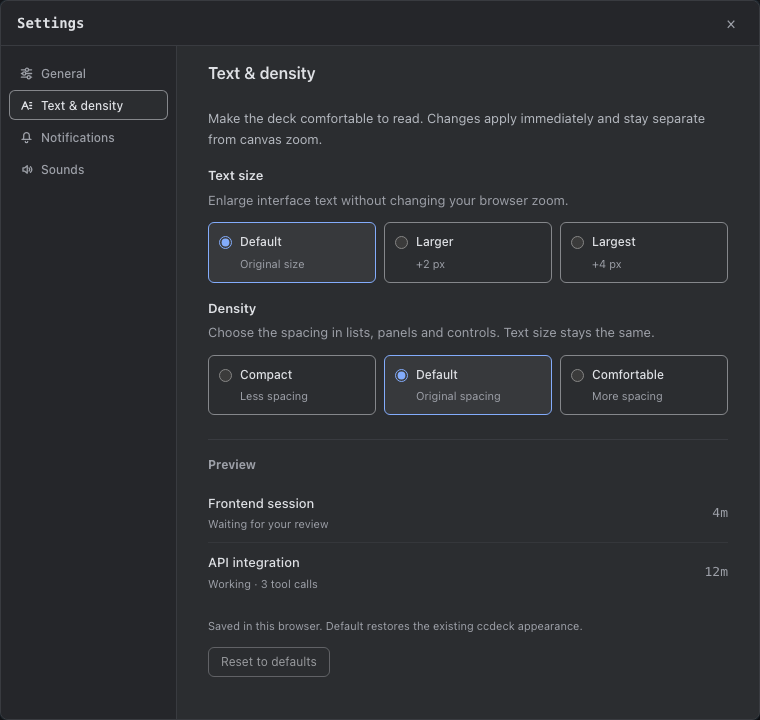
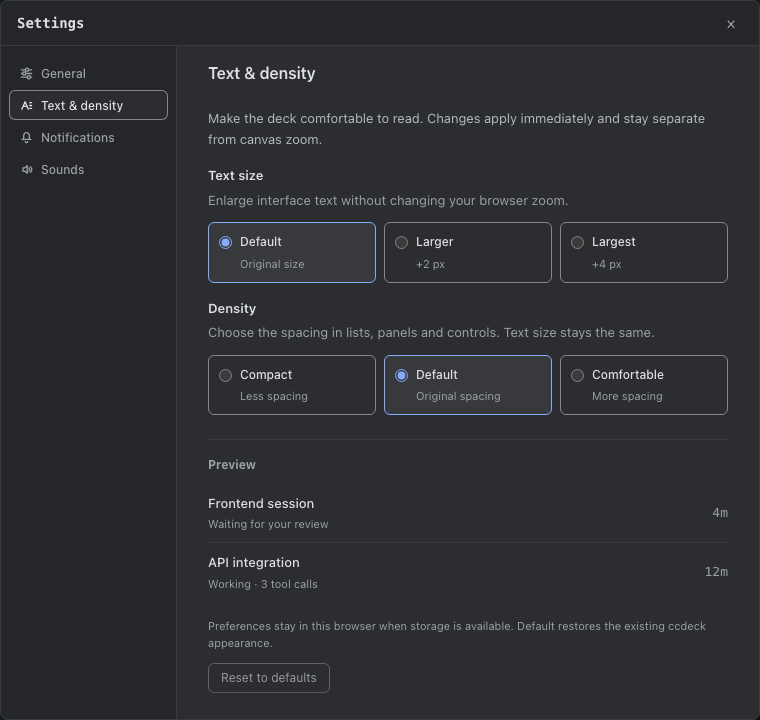
fix: finish reading preferences quality gate
Clarify browser persistence, preserve whole-word mobile labels, and apply density to account rows with verified default spacing. Record rendered top and bottom states and final checks so the reading controls remain usable under enlarged text and restricted storage.

Changed region(s): [[0.2724, 0.8556, 0.9382, 0.9472]]

diff --git a/src/web/styles/reading.css b/src/web/styles/reading.css
@@ -58,6 +58,7 @@
 @media (max-width: 640px) {
   .reading-options { grid-template-columns: minmax(0, 1fr); }
   .reading-choice > span { display: flex; flex: 1; justify-content: space-between; align-items: baseline; gap: 8px; }
+  .reading-choice strong { flex: none; overflow-wrap: normal; white-space: nowrap; }
   .reading-choice small { margin-top: 0; text-align: right; }
 }
 @media (forced-colors: active) {

diff --git a/src/web/components/ReadingSection.tsx b/src/web/components/ReadingSection.tsx
@@ -104,8 +104,8 @@ export default function ReadingSection({
       </section>
       <div className="reading-footer">
         <p>
-          Saved in this browser. Default restores the existing ccdeck
-          appearance.
+          Preferences stay in this browser when storage is available. Default
+          restores the existing ccdeck appearance.
         </p>
         <button
           type="button"

diff --git a/src/web/styles/accounts-panel.css b/src/web/styles/accounts-panel.css
@@ -121,7 +121,7 @@
 .ap-list {
   list-style: none;
   margin: 0;
-  padding: 6px 6px 8px;
+  padding: calc(6px + var(--ui-row-increase, 0px)) 6px calc(8px + var(--ui-row-increase, 0px));
   display: flex;
   flex-direction: column;
   gap: 2px;

diff --git a/.impeccable/surfaces/text-size-density.md b/.impeccable/surfaces/text-size-density.md
@@ -1,0 +1,59 @@
+---
+version: 1
+slug: "text-size-density"
+primary_target: "src/web/components/ReadingSection.tsx"
+related_targets: ["src/web/components/SettingsModal.tsx", "src/web/reading-preferences.ts", "src/web/styles/reading.css", "src/web/styles/accounts-panel.css", "src/web/use-appearance.ts", "src/web/index.html", "src/web/use-node-measurements.ts"]
+---
+
+# Text size and density
+
+Mode: Operate. Settings → Text & density lets the single operator make the deck easier
+to scan, see the result immediately, and restore the familiar appearance.
+
+Direction: extend the existing settings language and PRODUCT.md/DESIGN.md
+identity. Preserve system typography, monospaced values, theme and semantic
+colors, control edges, radii and focus tokens. No new visual identity, gradients,
+brand artwork or dependencies. Default keeps the established type and spacing.
+
+Task: choose independently between Default, Larger (+2 px) and Largest (+4 px)
+text, and Compact, Default and Comfortable density. Native radios in labeled
+fieldsets retain platform keyboard behavior. Changes apply immediately; the
+two illustrative session rows preview text and spacing. Reset to defaults
+restores both choices and is disabled when both are already Default.
+
+Layout and interaction: three choices per row become one column at 640px and
+below; mobile choice labels stay on one line without shrinking or breaking words.
+Keep help, preview and reset reachable in narrow and short windows at
+Largest/Comfortable. Selection uses the existing accent border and neutral
+fill; keyboard focus has a visible outline. Enlarged text raises control height
+floors; compact spacing must not reduce interactive rows below 24px. Density
+changes spacing independently of text size, including account-row padding;
+zero row increment preserves the original Default spacing.
+
+Persistence: preferences belong to this browser/origin, not an account or paired
+machine. Guarded storage reads fall back to Default; failed writes leave the
+current interface usable without promising reload persistence. The inline
+index.html bootstrap applies validated choices before first paint; React starts
+from the same values. Storage events synchronize same-origin tabs, with missing,
+invalid or cleared values resolving to Default. The footer states “Preferences
+stay in this browser when storage is available,” qualifying persistence for a
+blocked store.
+
+Canvas constraint: canvas zoom and browser zoom remain untouched. Zoomed-out LOD
+summaries explicitly use zero text offset to preserve fixed screen-space line
+budgets and container cutoffs. Expanded cards and detail panels enlarge normally;
+React Flow measurement and its DOM fallback supply updated card dimensions to
+layout rather than changing the camera scale.
+
+Verification: 32 focused test files / 668 tests passed before the last narrow-label
+and account-row adjustments. The final four-file check after those changes passed
+73 tests; final typecheck and production build passed. Actual-app browser checks
+passed keyboard radios, reload, cross-tab updates, denied storage, reset, Escape
+and focus return, unchanged React Flow viewport scale, narrow/short windows and
+light-theme rendering. Top and bottom Settings screenshots were inspected.
+The independent finish reviewer scored the material conditional-save-copy fix and
+optional whole-word-label follow-up resolved. SHIP at this bounded review scope;
+not a full-repository or cross-platform accessibility certification. SVG/canvas
+chart typography remains under each chart's existing renderer; no cloud or
+cross-origin preference migration is implemented. No new detector was run after
+the single clean initial detector pass.

diff --git a/.impeccable/review/text-density/verification.md b/.impeccable/review/text-density/verification.md
@@ -1,0 +1,48 @@
+# Text size and density verification
+
+2026-10-14. Feature branch: `feat/text-size-density`, from development `da2ec5b2`.
+
+## Implementation
+
+Settings → Text & density. Independent text Default/Larger/Largest (0/+2/+4px)
+and density Compact/Default/Comfortable; native keyboard-operable radios,
+immediate preview, reset, pre-paint restore and same-origin storage events.
+Default retains the existing type scale and spacing. Persistence is browser-local
+when browser storage permits it. No canvas/browser zoom setting is changed.
+Density adjusts shared panel/control geometry and agent/session/account rows.
+Zoomed-out LOD summaries retain their fixed screen-space typography budgets.
+
+## Executed checks
+
+- `npm run typecheck`: passed.
+- `npm run build`: passed after the final narrow label/account row follow-up
+  (13.09 seconds). Existing large-chunk warning.
+- Combined focused type/geometry/settings suite: **32 files, 668 tests passed**.
+  Legacy source-level geometry checks explicitly resolve only the two known
+  zero-default reading increments; actual browser tests check the rendered cascade.
+- After the account-row spacing and narrow-label follow-up:
+  `npm run test -- src/web/__tests__/reading-preferences.test.ts src/web/__tests__/panel-rhythm.test.ts src/web/__tests__/accounts-small-text-857.test.ts src/web/__tests__/control-edges.test.ts`:
+  **4 files, 73 tests passed**.
+- `PLAYWRIGHT_MODULE=<existing Playwright module> PLAYWRIGHT_EXECUTABLE=<installed Chromium executable> node scripts/verify-reading-preferences.mjs`:
+  passed after final UI corrections. Actual app at the isolated local preview,
+  no new test dependency. Default computed text/padding, independent controls,
+  native radio keyboard change, reload, cross-tab updates, denied storage,
+  reset, Escape/focus return and unchanged React Flow viewport scale verified.
+- Screenshots: 1280×900, 320×640, 390×844 and 1024×500; dark and White Contrast;
+  largest text with compact/comfortable spacing. Top and scrolled-bottom crops
+  show only Settings, without connected-account identifiers.
+- Impeccable mechanical detector on the new component/styles: `[]`, run once.
+- Independent finish review: one material misleading-save-copy finding, corrected
+  to conditional browser-storage wording and verified in the denied-storage test.
+  Optional narrow label word-split corrected and independently scored resolved.
+  Both final typecheck and build passed: SHIP at this bounded review scope.
+
+## Limitations
+
+This is not the entire repository regression suite or a WCAG certification.
+No Safari/Firefox, screen-reader, native Windows or Linux runtime check was run.
+SVG/canvas chart text retains its existing chart-specific rendering; this setting
+targets CSS interface typography. Offline/cloud sync and cross-origin desktop
+preference migration are separate work. The settings preview uses illustrative
+session rows; runtime browser checks use the actual application and isolated
+synthetic session events, without executing agents or altering provider accounts.
